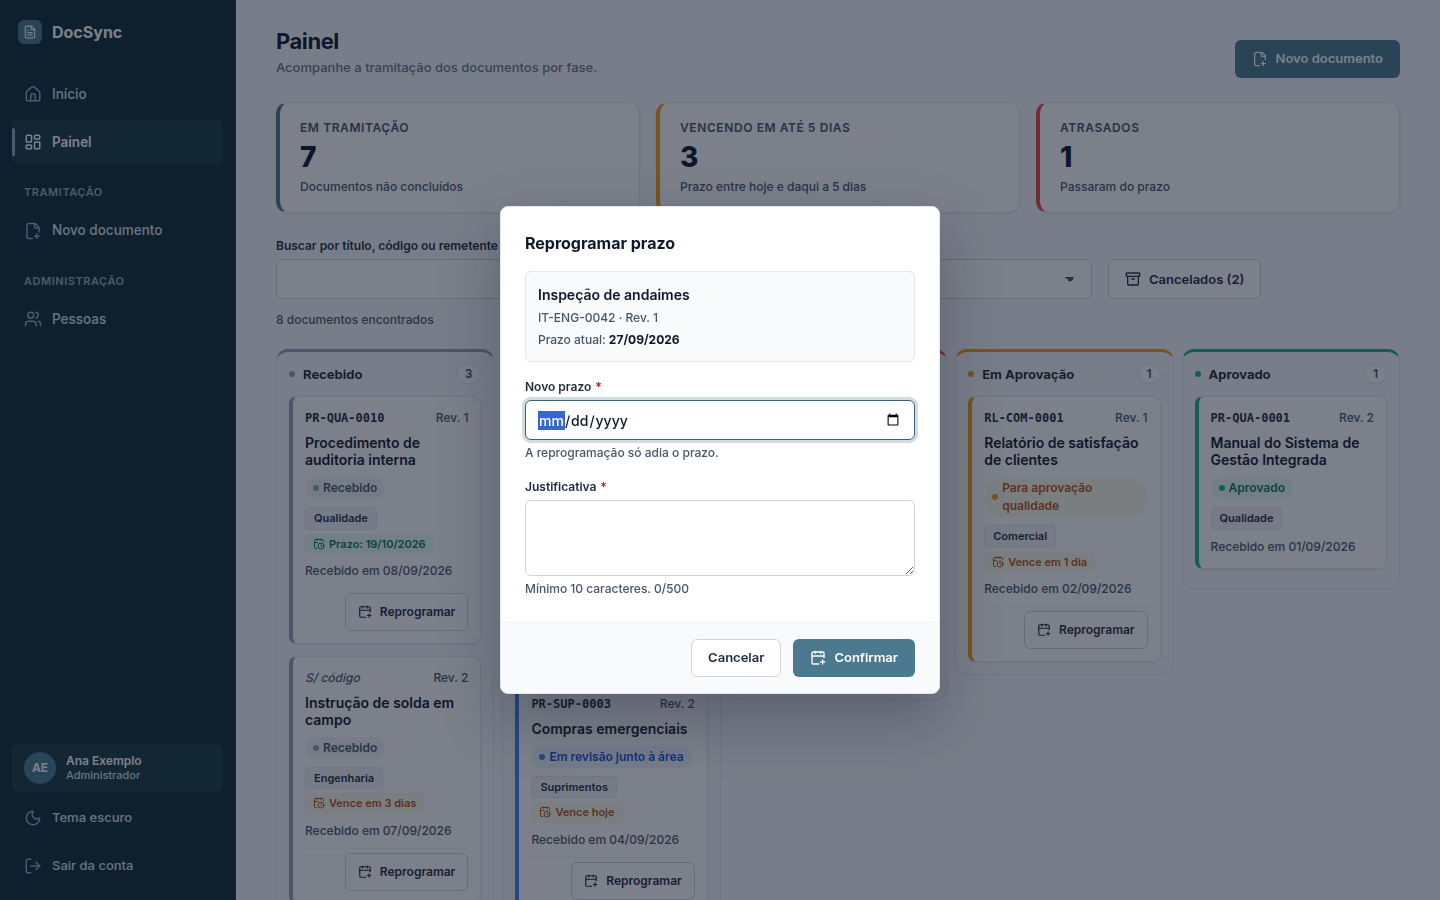
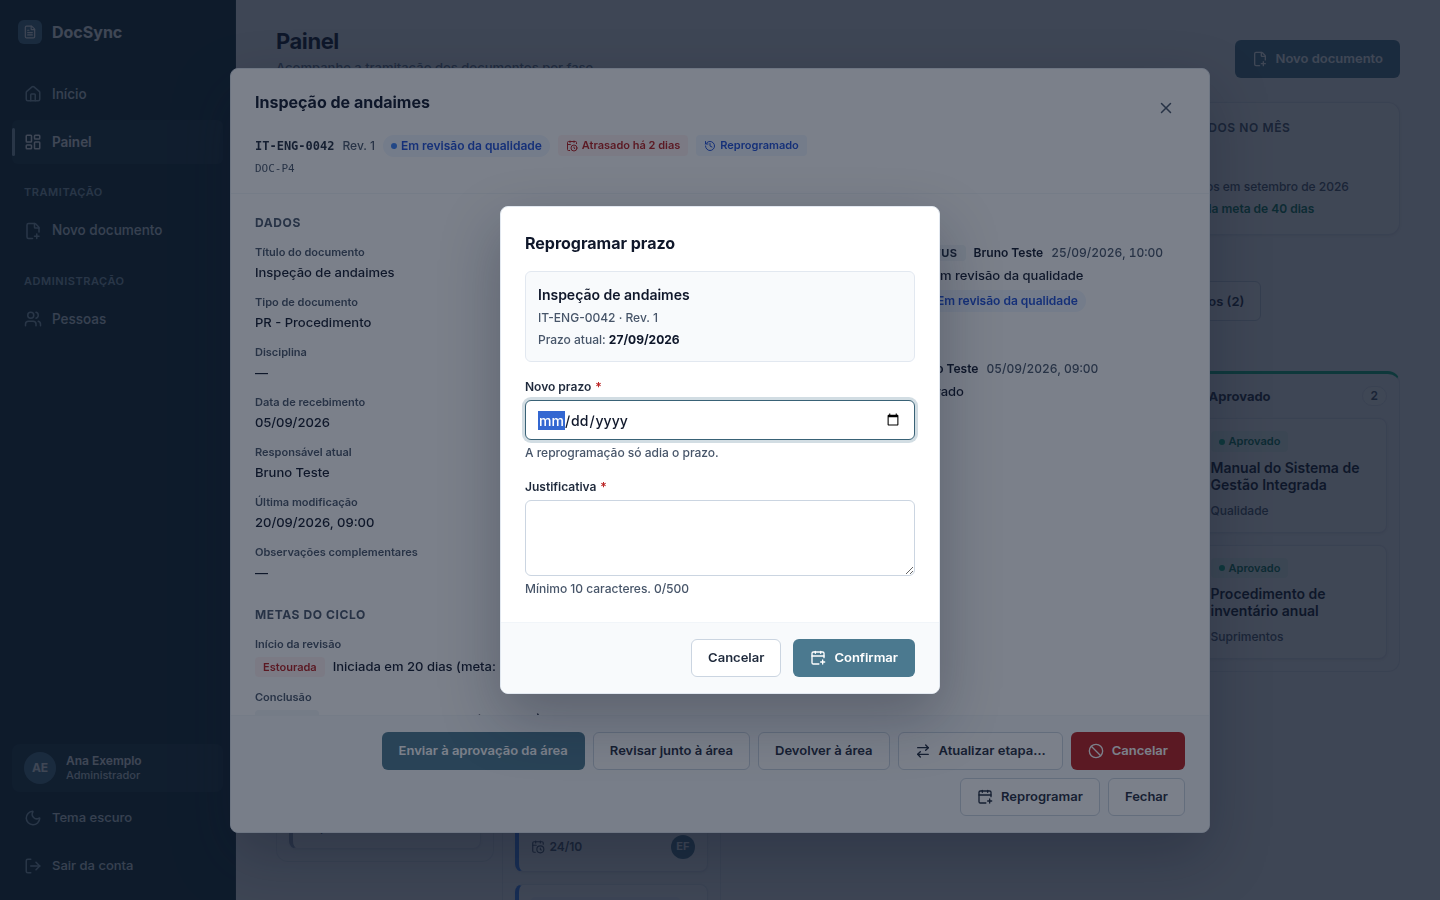
F5 (em andamento): interface — cartão Planner, ações no modal, metas
Claude-Session: https://claude.ai/code/session_01B3gkGo9nqbChhhVxVZNRHD

diff --git a/apps/web/e2e/capturas.spec.ts b/apps/web/e2e/capturas.spec.ts
@@ -44,8 +44,9 @@ for (const tema of ['claro', 'escuro'] as const) {
   test(`captura painel-reprogramar-${tema}`, async ({ page }) => {
     await page.setViewportSize({ width: 1440, height: 900 });
     await page.addInitScript((t) => localStorage.setItem('docsync.tema', t), tema);
-    await page.goto('/e2e/vitrine/index.html?rota=%2Fpainel');
-    await page.getByRole('button', { name: 'Reprogramar prazo de Inspeção de andaimes' }).click();
+    // F5 (decisão 0015): Reprogramar fica nos detalhes e só com prazo vencido.
+    await page.goto(`/e2e/vitrine/index.html?rota=${encodeURIComponent('/painel?documento=DOC-P4')}`);
+    await page.getByRole('dialog', { name: 'Inspeção de andaimes' }).getByRole('button', { name: 'Reprogramar' }).click();
     await page.getByRole('dialog', { name: 'Reprogramar prazo' }).waitFor();
     await page.waitForTimeout(500); // fim da animação de entrada do diálogo
     await page.screenshot({ path: `${pasta}/painel-reprogramar-${tema}.png` });
@@ -89,5 +90,59 @@ for (const tema of ['claro', 'escuro'] as const) {
     await page.getByRole('region', { name: 'Linha do tempo' }).locator('ol > li').first().waitFor();
     await page.waitForTimeout(500);
     await page.screenshot({ path: `${pasta}/detalhes-sobre-cancelados-${tema}.png` });
+  });
+}
+
+// F5: cartão no estilo do Planner (decisão 0015) e detalhes com o rodapé de ações.
+for (const tema of ['claro', 'escuro'] as const) {
+  for (const largura of [1440, 1024, 768]) {
+    test(`captura painel-planner-${largura}-${tema}`, async ({ page }) => {
+      await page.setViewportSize({ width: largura, height: 900 });
+      await page.addInitScript((t) => localStorage.setItem('docsync.tema', t), tema);
+      await page.goto('/e2e/vitrine/index.html?rota=%2Fpainel');
+      await page.getByRole('region', { name: 'Quadro de tramitação' }).getByRole('article').first().waitFor();
+      await page.waitForTimeout(300);
+      await page.screenshot({ path: `${pasta}/painel-planner-${largura}-${tema}.png` });
+    });
+  }
+
+  test(`captura detalhes-acoes-${tema}`, async ({ page }) => {
+    await page.setViewportSize({ width: 1440, height: 900 });
+    await page.addInitScript((t) => localStorage.setItem('docsync.tema', t), tema);
+    await page.goto(`/e2e/vitrine/index.html?rota=${encodeURIComponent('/painel?documento=DOC-P4')}`);
+    await page.getByRole('region', { name: 'Metas do ciclo' }).waitFor();
+    await page.waitForTimeout(500);
+    await page.screenshot({ path: `${pasta}/detalhes-acoes-${tema}.png` });
+  });
+
+  test(`captura detalhes-acoes-768-${tema}`, async ({ page }) => {
+    await page.setViewportSize({ width: 768, height: 900 });
+    await page.addInitScript((t) => localStorage.setItem('docsync.tema', t), tema);
+    await page.goto(`/e2e/vitrine/index.html?rota=${encodeURIComponent('/painel?documento=DOC-P1')}`);
+    await page.getByRole('region', { name: 'Metas do ciclo' }).waitFor();
+    await page.waitForTimeout(500);
+    await page.screenshot({ path: `${pasta}/detalhes-acoes-768-${tema}.png` });
+  });
+
+  test(`captura detalhes-acoes-etapa-${tema}`, async ({ page }) => {
+    await page.setViewportSize({ width: 1440, height: 900 });
+    await page.addInitScript((t) => localStorage.setItem('docsync.tema', t), tema);
+    await page.goto(`/e2e/vitrine/index.html?rota=${encodeURIComponent('/painel?documento=DOC-P1')}`);
+    await page.getByRole('dialog', { name: 'Procedimento de auditoria interna' }).getByRole('button', { name: 'Iniciar revisão' }).click();
+    await page.getByRole('dialog', { name: 'Atualizar etapa' }).getByRole('combobox', { name: /Responsável/ }).waitFor();
+    await page.waitForTimeout(500);
+    await page.screenshot({ path: `${pasta}/detalhes-acoes-etapa-${tema}.png` });
+  });
+
+  test(`captura detalhes-acoes-desfazer-${tema}`, async ({ page }) => {
+    await page.setViewportSize({ width: 1440, height: 900 });
+    await page.addInitScript((t) => localStorage.setItem('docsync.tema', t), tema);
+    await page.goto(`/e2e/vitrine/index.html?rota=${encodeURIComponent('/painel?documento=DOC-P7')}`);
+    await page.getByRole('dialog', { name: 'Relatório de satisfação de clientes' }).getByRole('button', { name: 'Cancelar' }).click();
+    await page.getByLabel(/Motivo do cancelamento/).fill('Pesquisa substituída pelo novo formulário.');
+    await page.getByRole('button', { name: 'Sim, cancelar' }).click();
+    await page.getByRole('button', { name: 'Desfazer' }).waitFor();
+    await page.waitForTimeout(400);
+    await page.screenshot({ path: `${pasta}/detalhes-acoes-desfazer-${tema}.png` });
   });
 }

diff --git a/apps/web/e2e/detalhes.spec.ts b/apps/web/e2e/detalhes.spec.ts
@@ -244,7 +244,8 @@ test.describe('toque emulado em 768px', () => {
     const noModal = await medir('dialog[open] button');
     expect(noModal.some((a) => a.nome.startsWith('Baixar'))).toBe(true);
     expect(noModal.some((a) => a.nome.startsWith('Detalhes'))).toBe(true);
-    for (const { nome, altura } of noModal) expect(altura, `altura de "${nome}"`).toBeGreaterThanOrEqual(44);
+    // Arredonda: o Chromium mede 43,9999 px em alguns botões de 44 px (subpixel).
+    for (const { nome, altura } of noModal) expect(Math.round(altura), `altura de "${nome}"`).toBeGreaterThanOrEqual(44);
     await page.keyboard.press('Escape');
     const titulos = await medir('main [data-cartao-id]');
     expect(titulos.length).toBeGreaterThan(0);

diff --git a/apps/web/e2e/status.spec.ts b/apps/web/e2e/status.spec.ts
@@ -19,7 +19,9 @@ async function abrir(page: Page, { tema = 'claro', largura = 1440, rota = '/pain
 
 async function axe(page: Page) {
   // Espera o fim da animação de entrada dos diálogos (a opacidade parcial falsearia o contraste).
-  await page.waitForFunction(() => document.getAnimations().every((a) => a.playState !== 'running'));
+  await page.waitForFunction(() =>
+    document.getAnimations().every((a) => a.playState !== 'running' || a.effect?.getTiming().iterations === Infinity),
+  );
   const resultado = await new AxeBuilder({ page }).withTags(['wcag2a', 'wcag2aa', 'wcag21a', 'wcag21aa']).analyze();
   expect(resultado.violations).toEqual([]);
 }

diff --git a/apps/web/src/telas/TelaPainel.module.css b/apps/web/src/telas/TelaPainel.module.css
@@ -188,10 +188,16 @@
   }
 }
 
-/* Tablet: KPIs em 2 colunas, mais compactos. */
-@media (max-width: 1023px) {
+/* Abaixo de 1200px (área útil menor que ~900px com a barra lateral): KPIs em 2 colunas. */
+@media (max-width: 1199px) {
   .kpis {
     grid-template-columns: repeat(2, minmax(0, 1fr));
+  }
+}
+
+/* Tablet: KPIs mais compactos. */
+@media (max-width: 1023px) {
+  .kpis {
     gap: var(--space-3);
   }
 

diff --git a/docs/relatorios/2026-09-29-f5-web-status.md b/docs/relatorios/2026-09-29-f5-web-status.md
@@ -1,0 +1,76 @@
+# Relatório — F5 — Interface da mudança de status (cartão Planner, ações nos detalhes)
+
+- **Data:** 2026-09-29
+- **Agente / modelo:** agente-ux-ui (acumulando agente-visao-minimalista) / Opus
+- **Fatia:** F5
+
+## O que foi feito
+
+Parte interface da F5, só em `apps/web`, pelo contrato [f5-mudanca-de-status.md](../contratos/f5-mudanca-de-status.md) (seções 11 e 12 prevalecem) e a decisão [0015](../decisoes/0015-cartao-estilo-planner.md).
+
+- **Cartão no estilo do Planner, sem botões.** Etiquetas no topo (status; "Reprogramado" quando houver), título, área e rodapé com o prazo curto ("10/09") e o responsável (iniciais em círculo, nome como texto acessível; nada quando não há). Prazo neutro em dia, laranja vencendo (hoje até 5 dias), vermelho vencido; cor nunca sozinha: ícone diferente por estado e texto acessível "Vence em N dias, prazo dd/mm/aaaa" / "Atrasado há N dias, …" (também no `title`). O estado vem de `etiquetaPrazo` (a mesma regra dos KPIs). Código, revisão, remetente, devoluções e "Recebido em" saíram do cartão. O único controle é o título (botão), e clique, Enter ou Espaço abrem os detalhes. O Reprogramar saiu do cartão.
+- **Colunas com rolagem vertical própria.** A coluna tem altura máxima pela janela (`--kanban-coluna-altura-max`) e a lista rola por dentro. A rolagem horizontal interna do quadro continua.
+- **Modal de detalhes: rodapé de ações**, sempre por `acoesDeStatus`/`pode` (via `permissoes.ts`), sem nenhum botão desabilitado de enfeite. São até 3 ações rápidas (a principal primeiro, estilo primário), "Atualizar etapa…", Cancelar (perigo), Reativar, Reprogramar (só com prazo vencido, por `podeReprogramarAgora`) e Fechar. Leitor, Solicitante de outra área e Aprovado ficam só com Fechar.
+  - **`DialogoAtualizarEtapa`** (empilhado): Etapa (opções de `acoesDeStatus`), Responsável (`GET /responsaveis`, grupos "Sugeridos"/"Outras pessoas" por `sugerirResponsaveis` + `ehResponsavelSugerido`, pré-seleção da primeira sugerida; estados carregando/erro com "Tentar de novo") e Observação (N/500). Validação por script, resumo focável e erros inline. Em 409 `conflito_versao` mostra "Alguém alterou este documento: agora está em X.", refaz as opções e fica aberto.
+  - **Aprovar** com confirmação ("A aprovação é final e encerra a tramitação."), enviando `responsavelId: null`.
+  - **`DialogoCancelar`**: motivo de 10 a 500 caracteres (`validarMotivoCancelamento`), com foco inicial no motivo. No sucesso o modal fecha, o cartão sai do quadro, "Cancelados (N)" sobe 1 e aparece o toast "Documento cancelado." com **Desfazer** (8 s). O Desfazer chama `reativarDocumento` com `OBSERVACAO_CANCELAMENTO_DESFEITO` e a `versao` devolvida pelo cancelamento, e o cartão volta. Em 409 aparece o toast de erro "Não foi possível desfazer: o documento foi alterado. Veja em Cancelados."
+  - **Reativar** (`DialogoConfirmar`): "Ele volta para <`statusDeReativacao(eventos)`>". Usa a mesma rota e a mesma função do cliente que o Desfazer (P-17).
+  - **Metas do ciclo** (seção nova abaixo de Dados), por `avaliarMetas` + `dataInicioRevisao`/`dataAprovacao` dos eventos. O estado vai por extenso ("Cumprida", "Estourada", "No prazo", "Não se aplica") nos tons sucesso/erro/neutro. Em Dados entrou o par "Responsável atual".
+  - Depois de cada ação, a recarga dos detalhes é silenciosa e o aviso fica dentro do modal (`role="status"`). Se o botão usado some (ex.: Reprogramar depois do prazo novo), o foco vai para o ✕ e nunca se perde.
+- **Janela de cancelados:** os cartões também não têm botões. O cartão abre os detalhes por cima e o **Reativar** fica lá. Depois de reativar, a janela recarrega a lista, o título atualiza a contagem e o Painel recebe o cartão.
+- **Painel:** quarto KPI "Aprovados no mês", com "Concluídos em <mês de aaaa>" e "N dentro da meta de 40 dias" ("—" enquanto carrega). Os KPIs ficam em 4 colunas, 2 abaixo de 1200px e 1 abaixo de 600px. Uma etapa registrada move o cartão de coluna na hora e recarrega o painel em silêncio (devoluções e datas do ciclo vêm do servidor). O rótulo da busca virou "Buscar por título, código, remetente ou responsável".
+- **Cliente e erros:** `api/cliente.ts` ganhou `mudarStatus`, `cancelarDocumento`, `reativarDocumento` e `responsaveis` (e `Sessao.tsx` os vigia). `ErroApi` guarda a `mensagem` do servidor, que substitui a padrão só em `acao_nao_permitida` e `sem_permissao`. O toast ganhou o tom `erro` (ícone de alerta em vez do ✓).
+- **Vitrine** (`e2e/vitrine/vitrine.tsx`): responsáveis fictícios, cartões com responsável e datas do ciclo, dois aprovados no mês (um fora da meta), cancelado com `statusAntesDoCancelamento`, e as rotas de status simuladas com as **mesmas regras puras** da API (`transicaoPermitida`, `pode`, `exigeResponsavel`, `podeSerCancelado`, `statusDeReativacao`, `podeReprogramarAgora`). Parâmetros novos: `?status=conflito`, `?responsaveis=erro` e `?desfazer=conflito`.
+
+Nenhum tipo novo foi criado fora de `packages/compartilhado`; não houve divergência de tipo. Usei também `ehResponsavelSugerido`, `podeReprogramarAgora`, `podeSerCancelado`, `iniciais` e `OBSERVACAO_CANCELAMENTO_DESFEITO`, que o agente do servidor exportou.
+
+## Arquivos alterados
+
+| Arquivo | Mudança |
+|---|---|
+| `apps/web/src/componentes/CartaoDocumento.tsx` / `.module.css` | Cartão Planner sem botões; `prazoDoCartao` (tom + texto acessível) |
+| `apps/web/src/componentes/ColunaKanban.module.css` | Altura máxima e rolagem vertical interna da lista |
+| `apps/web/src/componentes/DetalhesDocumento.tsx` / `.module.css` | Rodapé de ações, diálogos empilhados, Metas do ciclo, Responsável atual, recuperação de foco |
+| `apps/web/src/componentes/DialogoAtualizarEtapa.tsx` | Novo |
+| `apps/web/src/componentes/DialogoCancelar.tsx` | Novo |
+| `apps/web/src/componentes/DialogoConfirmar.tsx` | Novo (Aprovar e Reativar) |
+| `apps/web/src/componentes/DialogoStatus.module.css` | Novo (estilos dos três diálogos) |
+| `apps/web/src/componentes/JanelaCancelados.tsx` | Cartões sem botões; prop `recarga` (recarga silenciosa depois de reativar) |
+| `apps/web/src/componentes/Toast.tsx` / `.module.css` | Tom `erro` opcional |
+| `apps/web/src/telas/TelaPainel.tsx` / `.module.css` | 4º KPI, cancelar/Desfazer, reativação, recarga silenciosa, busca com responsável; Reprogramar saiu do Painel |
+| `apps/web/src/api/cliente.ts`, `api/erros.ts`, `autenticacao/Sessao.tsx` | Rotas da F5; mensagem do servidor |
+| `apps/web/src/permissoes.ts` | `podeReprogramar(eu, doc, hoje)` (prazo vencido), `podeCancelar`, `podeReativar`, `acoesDeStatusPara` |
+| `apps/web/src/formatacao.ts` | `formatarDiaMes`, `formatarMesAno` |
+| `apps/web/src/estilos/tokens.css` | `--kanban-coluna-altura-max`, `--avatar-cartao` |
+| `apps/web/src/**/*.test.tsx` | Testes do cartão, do rodapé, dos diálogos, das metas, do KPI, de cancelar/Desfazer e de reativar; fixtures com os campos novos |
+| `apps/web/e2e/status.spec.ts` | Novo: 19 testes (768/1024/1440, claro/escuro, axe, foco preso, toque 44px) |
+| `apps/web/e2e/painel.spec.ts`, `detalhes.spec.ts`, `capturas.spec.ts`, `vitrine/vitrine.tsx` | Ajustes ao cartão Planner, Reprogramar nos detalhes, rolagem por coluna, capturas novas |
+| `docs/relatorios/capturas/painel-planner-{768,1024,1440}-{claro,escuro}.png`, `detalhes-acoes-*.png` | Capturas novas; `painel-reprogramar-*` refeitas (Reprogramar agora pelos detalhes) |
+| `CHANGELOG.md` | Linha da F5 (interface) |
+
+## O que ficou pendente
+
+- **Diferenças pequenas em relação à seção 6 do contrato** (a registrar, se o Eric concordar):
+  1. As ações rápidas do rodapé põem a **principal primeiro**, e não "as três primeiras de `acoesDeStatus`". Em revisão, a principal ("Enviar à aprovação da área") é a 5.ª da lista e ficaria escondida.
+  2. **Janela de cancelados:** o Reativar fica nos detalhes abertos por cima e não no cartão (seção 11.5 e decisão 0015: nenhum botão no cartão). A rota, a função e o resultado são os mesmos do Desfazer (P-17).
+  3. KPIs em 2 colunas abaixo de 1200px, não de 980px: em 1024px, com a barra lateral, 4 colunas deixavam os rótulos em 2 ou 3 linhas.
+  4. A vitrine não tem `?toast=cancelado`. O e2e faz o fluxo real (cancelar → Desfazer pelo teclado).
+- **Proposta de visão minimalista (não aplicada, exige mudar o contrato):** no documento em revisão, o rodapé chega a 7 botões e quebra em duas linhas mesmo em 1440px (captura `detalhes-acoes-claro.png`). A proposta é deixar só a principal e "Atualizar etapa…" (que já oferece todas as etapas), além de Cancelar/Reprogramar/Fechar.
+- **CLAUDE.md** (o Claude principal atualiza): cartão Planner sem botões e colunas com rolagem própria; Reprogramar só nos detalhes e com prazo vencido (`podeReprogramarAgora`); `DialogoConfirmar`/`DialogoCancelar`/`DialogoAtualizarEtapa`; toast com tom `erro`; `ErroApi` com a mensagem do servidor em `acao_nao_permitida`/`sem_permissao`.
+- `docs/estado-atual.md` não foi alterado (fica com o Claude principal ao fechar a fatia). Revisão do `agente-qa-revisao` pendente.
+- `npm run test:e2e` nesta máquina precisa da config temporária para o Chromium de `/opt/pw-browsers`, que foi apagada no fim. Na máquina do Eric, o comando normal deve funcionar.
+
+## Como validar
+
+1. `npm run typecheck`, `npm test` (490 testes; 119 em `apps/web`), `npm run build` e `npm run segredos`: todos passaram.
+2. `npm run test:e2e`: 99 passaram e 39 foram pulados (capturas). O `status.spec.ts` tem 19 testes. Rodei com uma config local ignorada pelo Git apontando para o Chromium de `/opt/pw-browsers`, apagada no fim.
+3. Capturas: `CAPTURAS=<pasta> npx playwright test e2e/capturas.spec.ts -g "planner|acoes"`, já geradas em `docs/relatorios/capturas/` (`painel-planner-*`, `detalhes-acoes-*`).
+4. À mão na vitrine (`npm run dev -w apps/web`, depois `/e2e/vitrine/index.html?rota=%2Fpainel`):
+   - abra "Procedimento de auditoria interna" → "Iniciar revisão" → "Registrar etapa": o cartão vai para Em Revisão com as iniciais;
+   - "Relatório de satisfação de clientes" → Cancelar → Desfazer: o cartão sai e volta;
+   - "Cancelados (2)" → "Ata da reunião…" → Reativar: "volta para Em revisão da qualidade";
+   - teste também `&perfil=Leitor` e `&perfil=Solicitante`.
+
+## Decisões tomadas ou necessárias
+
+- Nenhuma decisão grande. As diferenças 1 a 3 acima e a proposta de rodapé enxuto ficam para o Eric aprovar ou recusar (registro no contrato ou numa decisão, se aprovadas).

diff --git a/CHANGELOG.md b/CHANGELOG.md
@@ -52,3 +52,4 @@ Uma linha por mudança relevante, na data em que aconteceu, com link para a deci
 - F5: contrato de Mudança de status escrito (máquina de estados por fase e perfil como função pura, `pode` com transição no contexto, responsável como pessoa cadastrada, rotas `POST /documentos/:id/transicoes|cancelamentos|reativacoes` com idempotência e `409 conflito_versao`, reativação para o status anterior (decisão [0004](docs/decisoes/0004-revisoes-e-reativacao.md)), KPI "Aprovados no mês" e metas 14/40 dias (decisão [0012](docs/decisoes/0012-recebimento-automatico-e-metas-de-ciclo.md)), "Responsável" no cartão, migração 0005), sem código; aguarda respostas do Eric (seção 10). Contrato: [docs/contratos/f5-mudanca-de-status.md](docs/contratos/f5-mudanca-de-status.md). Relatório: [docs/relatorios/2026-09-29-f5-contrato.md](docs/relatorios/2026-09-29-f5-contrato.md).
 - F4 (validação): modal de detalhes esconde "Revisa o documento" até a F8 e mostra "Seu perfil pode ver, mas não baixar arquivos." a quem não baixa (contrato F4, 11.2 e 11.6). Relatório: [docs/relatorios/2026-09-29-f4-web-detalhes.md](docs/relatorios/2026-09-29-f4-web-detalhes.md) (seção "Ajustes finais (validação)").
 - Decisão [0015](docs/decisoes/0015-cartao-estilo-planner.md): cartão no estilo do Planner, sem botões (etiquetas, título, área, prazo colorido, responsável), colunas com rolagem própria, reprogramar só com prazo vencido; novo agente `agente-visao-minimalista`. Contrato da F5 aprovado (seção 11).
+- F5 (parte interface, `apps/web`): cartão do Painel no estilo do Planner, sem botões (etiquetas, título, área, prazo curto neutro/laranja/vermelho com texto acessível, iniciais do responsável) e colunas com rolagem própria; todas as ações nos detalhes (Atualizar etapa com responsável, Aprovar com confirmação, Cancelar com motivo e Desfazer, Reativar pelo mesmo caminho, Reprogramar só com prazo vencido); seção "Metas do ciclo"; quarto KPI "Aprovados no mês" (decisão [0015](docs/decisoes/0015-cartao-estilo-planner.md), contrato [f5-mudanca-de-status.md](docs/contratos/f5-mudanca-de-status.md)). Relatório: [docs/relatorios/2026-09-29-f5-web-status.md](docs/relatorios/2026-09-29-f5-web-status.md).
